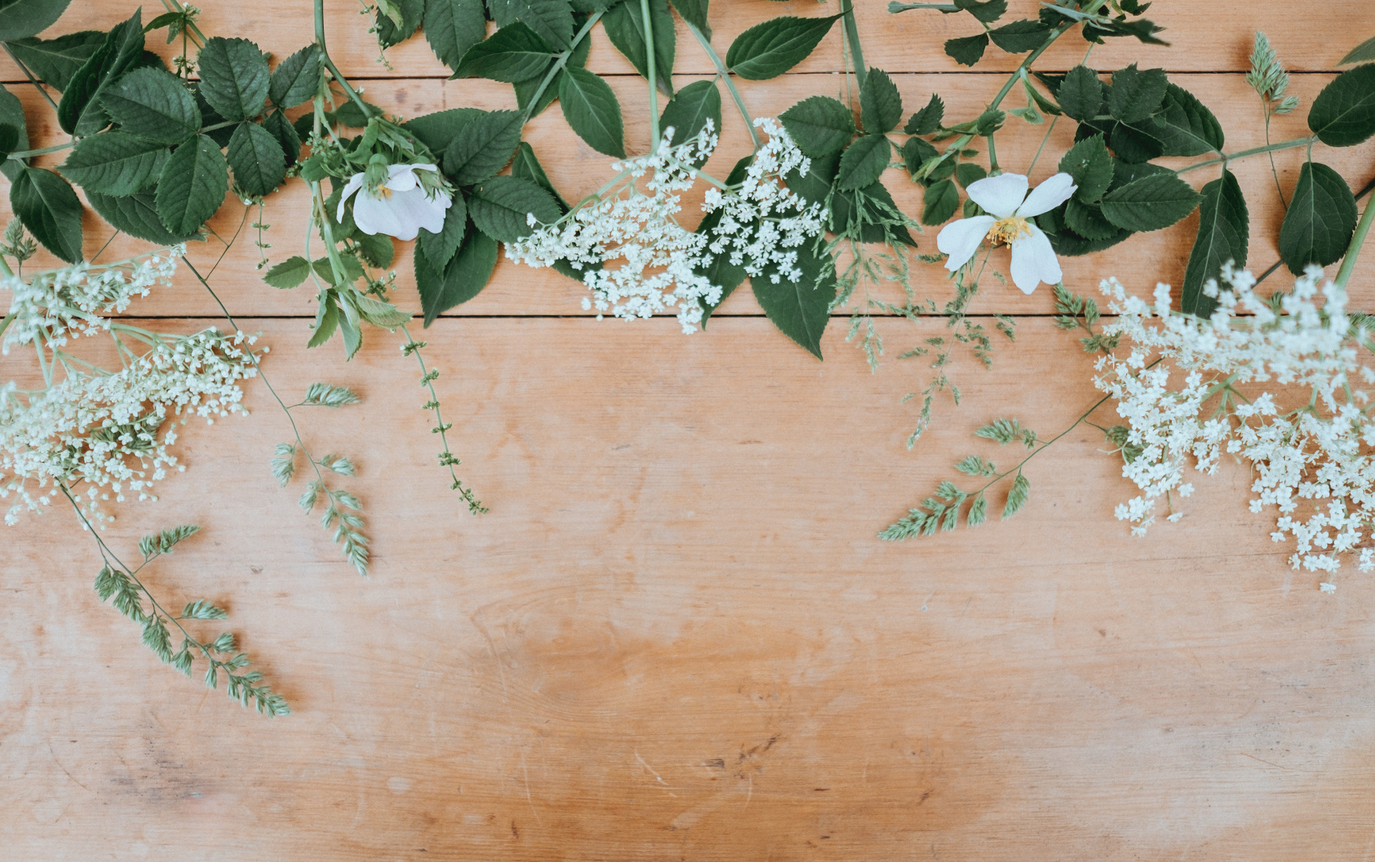
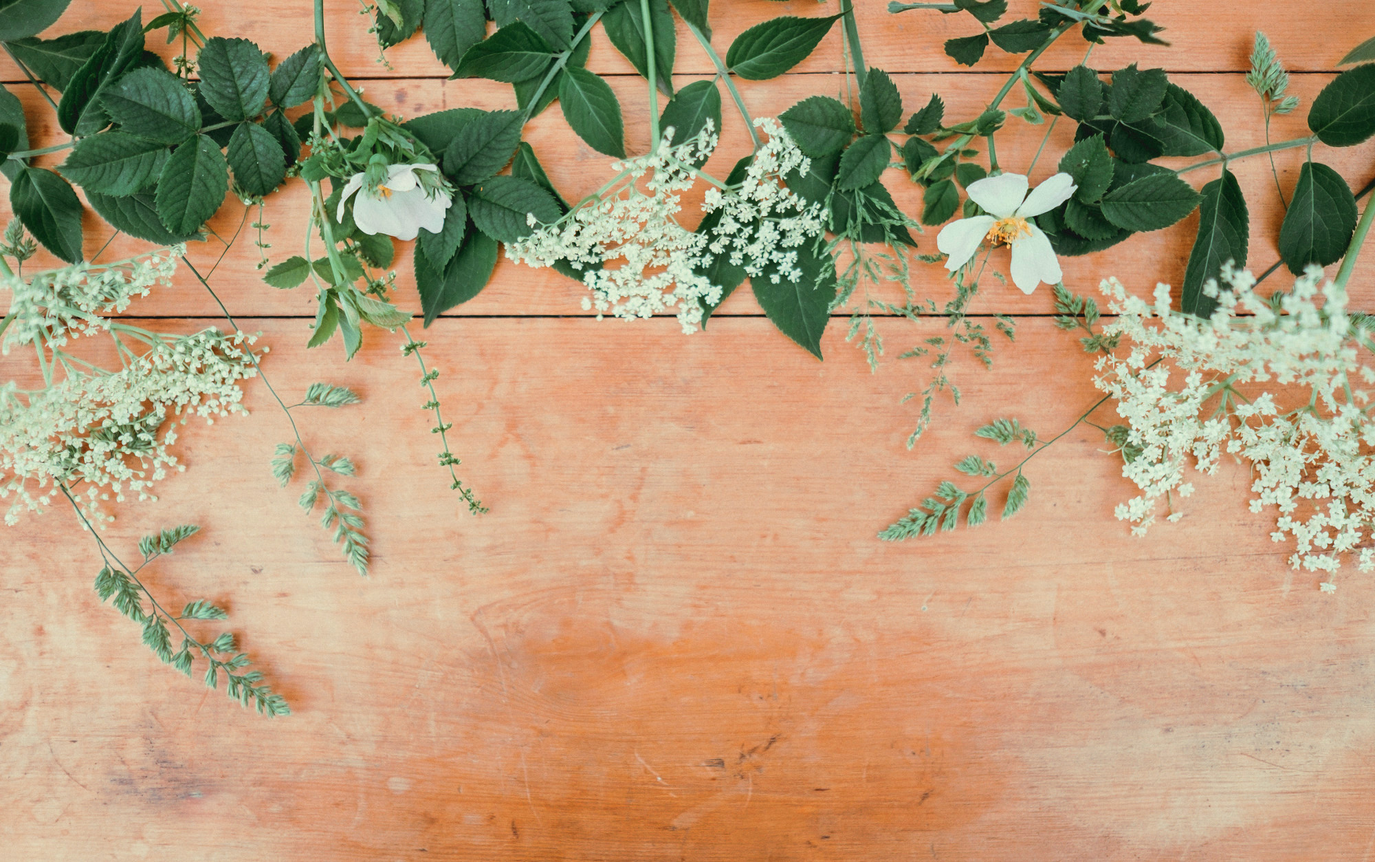
updated portfolio project explanations

diff --git a/portfolio.html b/portfolio.html
@@ -38,19 +38,17 @@
       </div>
     </div>
   
-  <div class="columns">
-    <div class="is-hidden-mobile column is-1 is-offset-1" style="position:relative;">
-      <section class="section">
-        <div id="id-social-links" class="social-links" style="position:relative;">
-        <a href="https://github.com/EstLx" class="social-link fa fa-lg fa-github"></a><br>
-          <a href="https://www.linkedin.com/in/estellelepeigneux/" class="social-link fa fa-lg fa-linkedin"></a><br>
-          
-          <a href="https://dribbble.com/estlx" class="social-link fa fa-lg fa-dribbble"></a><br>
-          <a href="mailto:elepeigneux@gmail.com" class="social-link fa fa-lg fa-envelope-o"></a>
+
+  <section class="hero is-dark is-medium" id="hero-back">
+      <div class="hero-body">
+        <div class="container" id="hero-back-cover">
+            
         </div>
-      </section>
-    </div>
-    <div class="column is-8">
+      </div>
+  </section>
+
+  <div class="columns">
+    <div class="column is-offset-2 is-8">
 
       <!-- PROJECT PAGE -->
       <section class="section">
@@ -71,52 +69,12 @@
           </div>
         </div>
 
-        <div class="tile is-ancestor">
-          <div class="tile is-parent">
-            <div class="tile project grey-hover image is-child" id="gallery-tile-2">
-              <a class="image"><img src="https://framapic.org/tspRzQNpICrw/KCgZmgCJ7wIV.png"></a>
-            </div>
-          </div>
-          <div class="tile is-parent">
-            <div class="tile project grey-hover image is-child" id="gallery-tile-3">
-              <a class="image"><img src="https://framapic.org/SIBQvNP6TtJu/aUBHGn0Fj6VK.png"></a>
-            </div>
-          </div>
-          <div class="tile is-parent">
-            <div class="tile project grey-hover image is-child" id="gallery-tile-1">
-              <a class="image"><img src="https://framapic.org/c2kUus16z4yD/GfQ6RjOrU1go.jpg"></a>
-            </div>
-          </div>
-        </div>
-
-        <div id="gallery-modal-1" class="modal">
-          <div class="modal-background"></div>
-          <div class="modal-content">
-            <img src="https://framapic.org/c2kUus16z4yD/GfQ6RjOrU1go.jpg">
-          </div>
-          <button class="modal-close is-large" aria-label="close"></button>
-        </div>
-        <div id="gallery-modal-2" class="modal">
-          <div class="modal-background"></div>
-          <div class="modal-content">
-            <img src="https://framapic.org/tspRzQNpICrw/KCgZmgCJ7wIV.png">
-          </div>
-          <button class="modal-close is-large" aria-label="close"></button>
-        </div>
-        <div id="gallery-modal-3" class="modal">
-          <div class="modal-background"></div>
-          <div class="modal-content">
-            <img src="https://framapic.org/SIBQvNP6TtJu/aUBHGn0Fj6VK.png">
-          </div>
-          <button class="modal-close is-large" aria-label="close"></button>
-        </div>
-
-
         <div class="content">
           <h4>Why this project ?</h4>
           <p>The day I decided I wanted to focus more on design and ergonomy, I knew I had to make a portfolio. So I started working on it during the free time I had, dreaming that one day I could achieve this idea full of sparkles that I have. Just because you are reading this right now, I guess I can say that it's a hit.</p>
+          <h4>Objectives</h4>
           <p>I wanted it to look simple yet elegant, colorful but without eccentricity, just like me.</p>
-          <h4>Work done</h4>
+          <h4>Approach</h4>
           <p>I decided to start working on my project following a few steps :
             <ul><li>What are the goals ? Which informations do I want to show ?</li>
             <li>Write down inspirations and ideas</li>
@@ -128,10 +86,70 @@
             </ul>
             <blockquote>These steps were highly inspired by <a href="https://www.smashingmagazine.com/2013/06/workflow-design-develop-modern-portfolio-website/">this article</a> by Adham Dannaway on smashingmagazine</blockquote>
           </p>
+
+          <h3>Iteration 1</h3>
+          <div class="tile is-ancestor">
+            <div class="tile is-parent">
+              <div class="tile project grey-hover image is-child" id="gallery-tile-2">
+                <a class="image"><img src="https://framapic.org/tspRzQNpICrw/KCgZmgCJ7wIV.png"></a>
+              </div>
+            </div>
+            <div class="tile is-parent">
+              <div class="tile project grey-hover image is-child" id="gallery-tile-3">
+                <a class="image"><img src="https://framapic.org/SIBQvNP6TtJu/aUBHGn0Fj6VK.png"></a>
+              </div>
+            </div>
+            <div class="tile is-parent">
+              <div class="tile project grey-hover image is-child" id="gallery-tile-1">
+                <a class="image"><img src="https://framapic.org/c2kUus16z4yD/GfQ6RjOrU1go.jpg"></a>
+              </div>
+            </div>
+          </div>
+
+          <div id="gallery-modal-1" class="modal">
+            <div class="modal-background"></div>
+            <div class="modal-content">
+              <img src="https://framapic.org/c2kUus16z4yD/GfQ6RjOrU1go.jpg">
+            </div>
+            <button class="modal-close is-large" aria-label="close"></button>
+          </div>
+          <div id="gallery-modal-2" class="modal">
+            <div class="modal-background"></div>
+            <div class="modal-content">
+              <img src="https://framapic.org/tspRzQNpICrw/KCgZmgCJ7wIV.png">
+            </div>
+            <button class="modal-close is-large" aria-label="close"></button>
+          </div>
+          <div id="gallery-modal-3" class="modal">
+            <div class="modal-background"></div>
+            <div class="modal-content">
+              <img src="https://framapic.org/SIBQvNP6TtJu/aUBHGn0Fj6VK.png">
+            </div>
+            <button class="modal-close is-large" aria-label="close"></button>
+          </div>
           
         
+          <p>This first version was the first idea that came to my mind. A simple layout that is easy to follow and understand. Very basic, but effective. It allowed me to create the main structure of information. The social links on the left were following the scrolling page, so that they would be visible everytime.
+          </p>
+          <p>I entirely developped this version so I could send it to some friends and have feedback on what was good and what was to upgrade.
+          </p>
+          <p>That's a good job :
+          <ul>
+            <li>Information structure</li>
+            <li>Nice logo</li>
+            <li>Simple but direct to the point</li>
+          </ul>
+          I should do better next time :
+          <ul>
+            <li>Missing a bit of colors</li>
+            <li>No "wow"</li>
+          </ul>
 
-        
+          <h3>Iteration 2</h3>
+          <p>The weekend went by, I kept looking at various portfolios via Dribbble or by searching the internet. I couldn't help it, mine was missing something. I liked it, but it looked unfinished, simple but maybe a bit too simple... I decided to bring it some good vibes and colors by adding a picture on the hero background !</p>
+          <p>And it became the website you are looking at right now.</p>
+
+        </div>
       </section>
     </div>
 
@@ -141,7 +159,9 @@
 
   </div>
 
-
+  <a href="#" class="back-to-top" style="display: inline;">
+    <i class="fa fa-2x fa-angle-up" aria-hidden="true"></i>
+  </a>
   <script>
       /** JS HERE **/
 
@@ -226,23 +246,26 @@
       $('#gallery-modal-3').addClass("is-active");
     });
 
-/** SOCIAL LINK ANIMATION**/
-  $(window).scroll(function() {
-      var y_scroll_pos = window.pageYOffset;
-      var scroll_pos_test = 90;             
-    // set to whatever you want it to be
 
-      if(y_scroll_pos > scroll_pos_test) {
-       $("#id-social-links").css("position","fixed");
-       $("#id-social-links").css("top","15px");
+  /** BACK TO TOP BUTTON **/
+  jQuery(document).ready(function() {
+  
+    var btn = $('.back-to-top');
+
+    $(window).scroll(function() {
+      if ($(window).scrollTop() > 300) {
+        btn.addClass('show');
+      } else {
+        btn.removeClass('show');
       }
-    else
-    {
-      $("#id-social-links").css("position","relative");
-      $("#id-social-links").css("top","auto");
-    }
-  });
+    });
 
+    btn.on('click', function(e) {
+      e.preventDefault();
+      $('html, body').animate({scrollTop:0}, '300');
+    });
+
+  });
 
   </script>
   </body>

diff --git a/index.html b/index.html
@@ -26,13 +26,13 @@
         </button>
       </div>
       <div class="navbar-menu navbar-end" id="navMenu">
-        <a class="navbar-item" href="#projects-desktop">
-          Portfolio
+        <a class="navbar-item js-scrollTo" href="#projects-desktop">
+          Projects
         </a>
-        <a class="navbar-item" href="#about">
+        <a class="navbar-item js-scrollTo" href="#about">
           About me
         </a>
-        <a class="navbar-item" href="#contact">
+        <a class="navbar-item js-scrollTo" href="#contact">
           Contact
         </a>
       </div>
@@ -194,8 +194,8 @@
             </a>
             </div>
             <div class="column is-3">
-              <a href="rearth.html" class="">
-                <div class="snip1577 transition">
+              <a href="rearth.html" class=" transition">
+                <div class="snip1577">
                   <figure class="image">
                     <img src="https://framapic.org/3rnJqPV4csop/6q2zsJwEcepE.jpg" alt="Image">
                   </figure>
@@ -422,6 +422,15 @@
     });
   }
 
+  });
+
+  $(document).ready(function() {
+    $('.js-scrollTo').on('click', function() { // Au clic sur un élément
+      var page = $(this).attr('href'); // Page cible
+      var speed = 750; // Durée de l'animation (en ms)
+      $('html, body').animate( { scrollTop: $(page).offset().top }, speed ); // Go
+      return false;
+    });
   });
   /** END NAVBAR **/
 

diff --git a/style.css b/style.css
@@ -40,8 +40,8 @@
 }
 
 .social-links .fa:hover {
-    background: #2d2d2d;
-    color: white;
+    background: white;
+    color: black !important;
 }
 
 /** HERO **/
@@ -78,7 +78,7 @@
   padding-bottom: 19px;
   padding-top: 15px;
   color: #ffffff;
-  background-color: #fccf3c;
+  background-color: #fcc920;
   transition: background-color .3s, 
     opacity .5s, visibility .5s;
   opacity: 0;
@@ -99,7 +99,7 @@
 .project .image img {
 	opacity:1;
 	-webkit-transition: .2s ease-in-out;
-	transition: .2s ease-in-out;
+	transition: .2s ease-in-out; 
 }
 .project:hover img{
 	opacity: 0.5;
